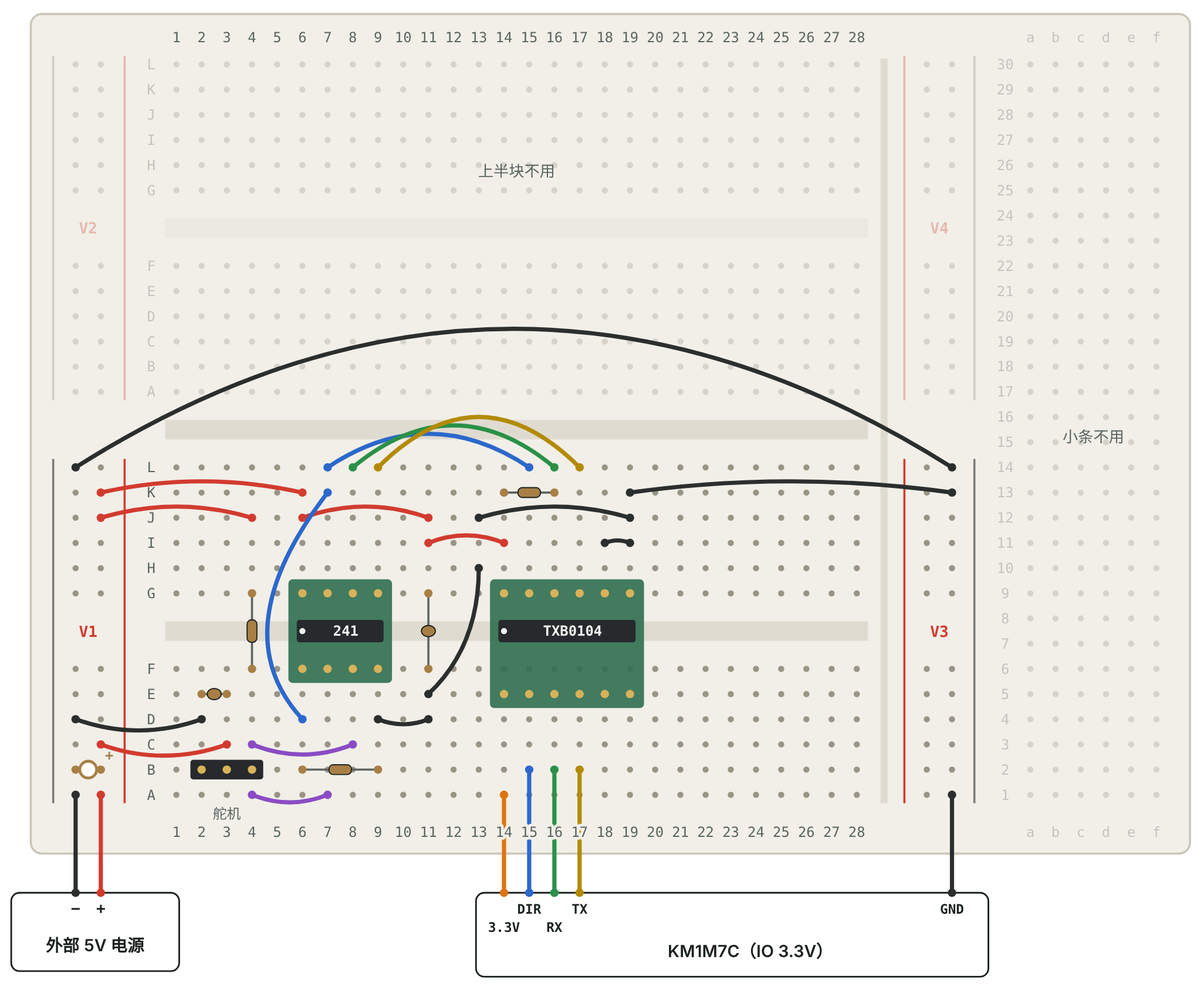
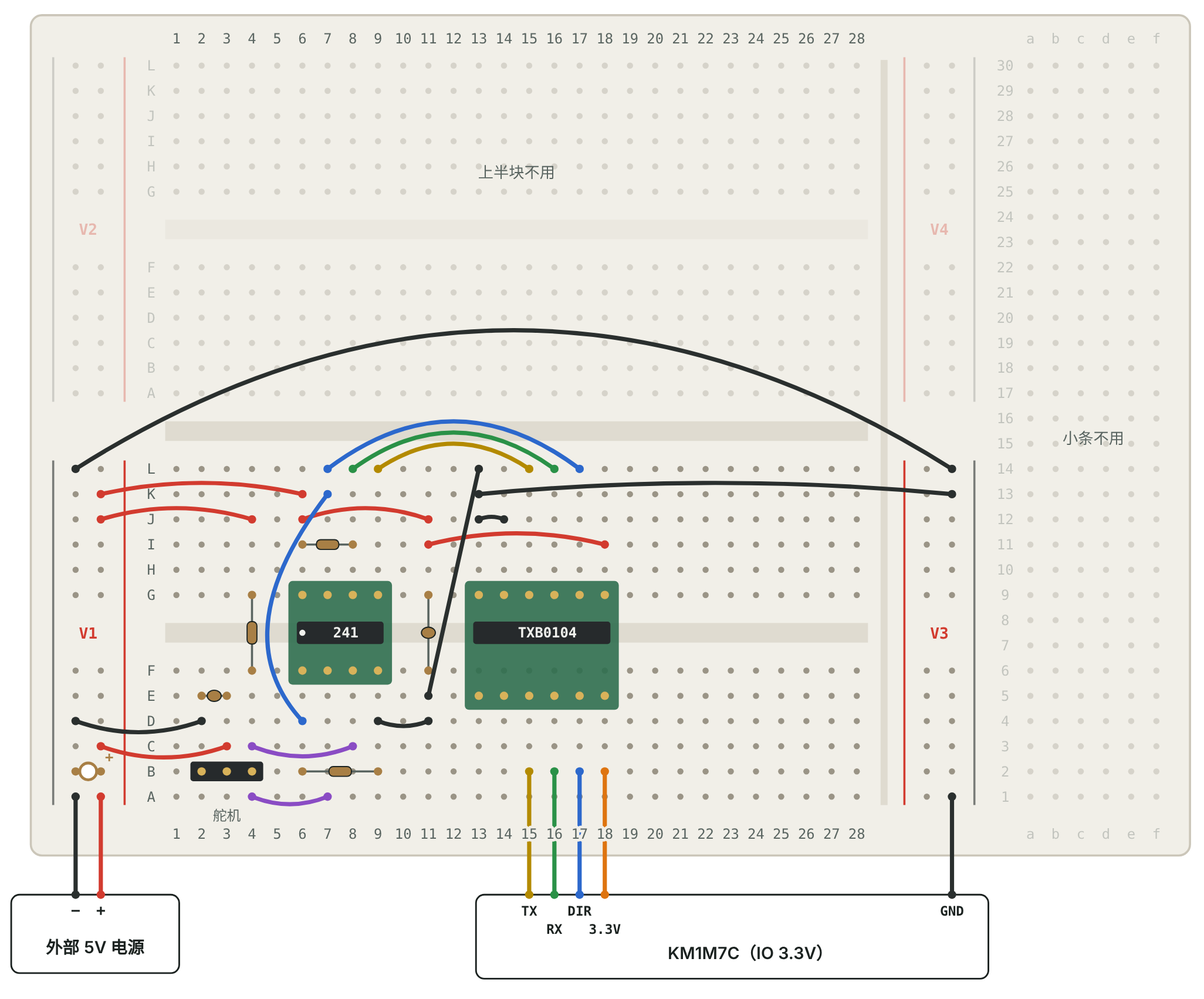
Redesign the layout around the Adafruit 1875 breakout
Instead of patching the 14-pin layout, place the module turned around in
columns 13-18 (GND/OE on the left, HV/LV on the right):
- module GND faces the hub, so one jumper (P8) replaces the old two-wire
  ground path, and B4 ties to GND with a one-column jumper;
- B3/B2/B1 sit opposite 2A/1Y/2OE, so the three bus wires nest without
  crossing;
- HV/LV are next to the MCU side; R2 moves next to the 241.
Channel assignment (A1=DIR, A2=RX, A3=TX) is unchanged, so the
schematic and firmware stay the same. The checker's placement and
self-tests are updated; 30 wires/parts, all nets match.

Claude-Session: https://claude.ai/code/session_01WiTXKFSppvefth2JxyFg7v

diff --git a/docs/breadboard/xl330_breadboard.html b/docs/breadboard/xl330_breadboard.html
@@ -156,10 +156,10 @@ ol.steps{margin:0;padding-left:1.4em;display:grid;gap:8px;max-width:72ch}
     <h2 id="w-h" style="font-size:16px">动手前先看这五条</h2>
     <ol>
       <li>面包板按照片的方向放：V1、V2 电源轨在左边，最右边是 1–30 的小条。只用下半块，也就是 V1 和 V3 中间那一块（28 列，槽两边各 6 个孔）。上半块、V2、V4 和小条都不用。</li>
-      <li><b>V1 = 外部 5V 和 GND，V3 − = MCU 的 GND（V3 + 不用）。</b>每条电源轨里，靠里（红线）那列是 +，靠外（黑线）那列是 −。先贴胶带标注。MCU 的 3.3V 直接插到第 14 列。</li>
+      <li><b>V1 = 外部 5V 和 GND，V3 − = MCU 的 GND（V3 + 不用）。</b>每条电源轨里，靠里（红线）那列是 +，靠外（黑线）那列是 −。先贴胶带标注。MCU 的 3.3V 直接插到第 18 列。</li>
       <li>MCU 板的 5V 引脚空着不接。同一条电源线上只能有一个电源。</li>
       <li>所有 GND 都要连在一起：外部电源的地和 MCU 的地靠 P1 那根长线接通。</li>
-      <li>241 转接板的 1 脚（圆点）朝左下：在槽下方（A–F 一侧）、靠 V1 那头，两排针插 G 行和 F 行。TXB0104 是 Adafruit 1875 模块（每排 6 针）：LV A1 A2 A3 A4 OE 那排插 E 行，HV B1 B2 B3 B4 GND 那排插 G 行，LV、HV 在第 14 列（靠 V1 那头）。E 和 F 同属槽下方那一组，电气上一样。</li>
+      <li>241 转接板的 1 脚（圆点）朝左下：在槽下方（A–F 一侧）、靠 V1 那头，两排针插 G 行和 F 行。TXB0104 是 Adafruit 1875 模块（每排 6 针），调头插在第 13–18 列：E 行从左到右是 OE A4 A3 A2 A1 LV，G 行是 GND B4 B3 B2 B1 HV，LV、HV 在第 18 列（靠 V3 那头）。E 和 F 同属槽下方那一组，电气上一样。</li>
     </ol>
   </section>
 
@@ -263,7 +263,7 @@ ol.steps{margin:0;padding-left:1.4em;display:grid;gap:8px;max-width:72ch}
     <p class="lede">按你照片里这块板画的，方向也和照片一样。这块板的电源轨在列的两头（左边 V1/V2，右边 V3/V4），不是沿着列走，所以用第 11 列做了一个 5V 和 GND 的中转点，两颗芯片的电源从这里接，线更短。点下面清单里的任意一条，图上会只突出那一根线。</p>
     <div class="frame"><svg id="bb" class="bb" viewBox="104 14 860 712" role="img" aria-labelledby="bb-t"><title id="bb-t">你的面包板上的元件位置与接线</title><g id="bb-g"></g></svg></div>
     <div class="legend">
-      <span><i class="sw c-5"></i>5V（V1 +，外部电源）</span><span><i class="sw c-33"></i>3.3V（MCU 直接接第 14 列）</span><span><i class="sw c-g"></i>GND（V1 −、V3 −）</span><span><i class="sw c-part"></i>电阻 / 电容</span>
+      <span><i class="sw c-5"></i>5V（V1 +，外部电源）</span><span><i class="sw c-33"></i>3.3V（MCU 直接接第 18 列）</span><span><i class="sw c-g"></i>GND（V1 −、V3 −）</span><span><i class="sw c-part"></i>电阻 / 电容</span>
     </div>
   </section>
 
@@ -284,13 +284,13 @@ ol.steps{margin:0;padding-left:1.4em;display:grid;gap:8px;max-width:72ch}
         <tr><td>9</td><td>5 2A · TX</td><td>4 GND</td></tr>
         <tr class="grp"><td colspan="3">中转（第 11 列）</td></tr>
         <tr><td>11</td><td>5V</td><td>GND</td></tr>
-        <tr class="grp"><td colspan="3">TXB0104 模块（第 14–19 列，针插 G 行和 E 行）</td></tr>
-        <tr><td>14</td><td>HV · 5V</td><td>LV · 3.3V（MCU 直接接）</td></tr>
-        <tr><td>15</td><td>B1 · DIR（接 241）</td><td>A1 · DIR（接 MCU）</td></tr>
+        <tr class="grp"><td colspan="3">TXB0104 模块（第 13–18 列，调头插，针插 G 行和 E 行）</td></tr>
+        <tr><td>13</td><td>GND</td><td>OE · 不接（模块上已有 10k 上拉）</td></tr>
+        <tr><td>14</td><td>B4 · 接 GND</td><td>A4 · 不接</td></tr>
+        <tr><td>15</td><td>B3 · TX（接 241）</td><td>A3 · TX（接 MCU）</td></tr>
         <tr><td>16</td><td>B2 · RX（接 241）</td><td>A2 · RX（接 MCU）</td></tr>
-        <tr><td>17</td><td>B3 · TX（接 241）</td><td>A3 · TX（接 MCU）</td></tr>
-        <tr><td>18</td><td>B4 · 接 GND</td><td>A4 · 不接</td></tr>
-        <tr><td>19</td><td>GND</td><td>OE · 不接（模块上已有 10k 上拉到 LV）</td></tr>
+        <tr><td>17</td><td>B1 · DIR（接 241）</td><td>A1 · DIR（接 MCU）</td></tr>
+        <tr><td>18</td><td>HV · 5V</td><td>LV · 3.3V（MCU 直接接）</td></tr>
       </tbody>
     </table></div>
   </section>
@@ -321,7 +321,7 @@ ol.steps{margin:0;padding-left:1.4em;display:grid;gap:8px;max-width:72ch}
       <h2>上电前检查</h2>
       <ol class="steps">
         <li>接完第 1 组、插芯片之前：万用表打到蜂鸣档，测 V1 + 对 V1 −，不能响。再测 V1 + 最上面和最下面两个孔，应该响，说明整条是通的；V1 −、V3 − 也一样测。</li>
-        <li>外部电源通电，测 V1 + 对 V1 − 约 5V；插上 MCU 的 USB，测第 14 列槽下方对 V3 − 约 3.3V。确认后都断电。</li>
+        <li>外部电源通电，测 V1 + 对 V1 − 约 5V；插上 MCU 的 USB，测第 18 列槽下方对 V3 − 约 3.3V。确认后都断电。</li>
         <li>接完芯片供电后再上电：TXB0104 模块的 LV 约 3.3V、HV 约 5V，74LVC2G241 第 8 脚约 5V。</li>
         <li>舵机线先别插，测第 3 列对第 2 列约 5V（舵机 VDD 对 GND）。</li>
         <li>上电顺序：先插 MCU 的 USB，再开外部 5V；断电顺序相反。顺序反了也不会损坏芯片，TXB0104 有一侧没电时输出会变成高阻。</li>
@@ -358,7 +358,7 @@ ol.steps{margin:0;padding-left:1.4em;display:grid;gap:8px;max-width:72ch}
     <div class="tbl"><table>
       <thead><tr><th>现象</th><th>先查什么</th></tr></thead>
       <tbody>
-        <tr><td style="font-family:var(--sans)">ping 一直没有应答</td><td>舵机上电时 LED 有没有闪；波特率是不是 57600；MCU 的 DIR、RX、TX 是否分别接第 15、16、17 列（槽下方）；上电后（DIR = 0）第 4 列 DATA 对 GND 是否约 5V；DIR = 1 时 241 第 7 脚是否约 5V。</td></tr>
+        <tr><td style="font-family:var(--sans)">ping 一直没有应答</td><td>舵机上电时 LED 有没有闪；波特率是不是 57600；MCU 的 DIR、RX、TX 是否分别接第 17、16、15 列（槽下方）；上电后（DIR = 0）第 4 列 DATA 对 GND 是否约 5V；DIR = 1 时 241 第 7 脚是否约 5V。</td></tr>
         <tr><td style="font-family:var(--sans)">偶尔有应答，经常 CRC 错误</td><td>DIR 切得太早：换成等“发送完成”标志。也检查 GND 是否都连在一起，尤其是 P1 那根长线。</td></tr>
         <tr><td style="font-family:var(--sans)">RX 收到的是自己刚发出去的字节</td><td>1OE 和 2OE 接反了，两个缓冲器同时打开。核对 S4、S7 两根线。</td></tr>
         <tr><td style="font-family:var(--sans)">舵机一转通信就中断</td><td>外部电源电流不够，或者 100µF 电容没接好。241 和舵机用的是同一路 5V，电压一掉就会出错。</td></tr>
@@ -397,7 +397,7 @@ ol.steps{margin:0;padding-left:1.4em;display:grid;gap:8px;max-width:72ch}
   const UROW={L:60,K:78,J:96,I:114,H:132,G:150,F:204,E:222,D:240,C:258,B:276,A:294};
   const RAILX={V1N:158,V1P:176,V3P:766,V3N:784};
   const RAILNAME={V1N:'V1 −',V1P:'V1 +',V3P:'V3 +',V3N:'V3 −'};
-  const MCU={'3V3':[464,652],DIR:[482,652],RX:[500,652],TX:[518,652],GND:[784,652]};
+  const MCU={TX:[482,652],RX:[500,652],DIR:[518,652],'3V3':[536,652],GND:[784,652]};
   const EXT={'+':[176,652],'-':[158,652]};
   const COL={'5':'var(--w5)','33':'var(--w33)','g':'var(--wg)','rx':'var(--wrx)','tx':'var(--wtx)','dir':'var(--wdir)','data':'var(--wdata)','part':'var(--part)'};
   const CN={'5':'红','33':'橙','g':'黑','rx':'绿','tx':'黄','dir':'蓝','data':'紫'};
@@ -423,26 +423,25 @@ ol.steps{margin:0;padding-left:1.4em;display:grid;gap:8px;max-width:72ch}
       ['P6','w','9D','11D','g','把 241 的 GND（4 脚）引到第 11 列槽下方（中转）'],
       ['C2','c','11G','11F','part','跨过槽，接在 5V 和 GND 中转之间的去耦电容','0.1µF'],
       ['R3','r','6B','9B','part','DIR 下拉（1OE ↔ GND）','100kΩ']]},
-    {t:'TXB0104 供电',items:[
-      ['K1','k','插入 TXB0104 模块','','','第 14–19 列：LV A1 A2 A3 A4 OE 那排插 E 行，HV B1 B2 B3 B4 GND 那排插 G 行，LV 在 14E、HV 在 14G。OE 不用接，模块上已有 10k 上拉'],
-      ['P7','w','11I','14I','5','HV（VB）= 5V'],
-      ['M1','w','MCU:3V3','14A','33','LV（VA）= 3.3V，MCU 的 3.3V 直接插到这里','',{b:0}],
-      ['P14','w','11E','13H','g','把 GND 从中转点引到第 13 列槽上方，再由 P11 接到模块的 GND','',{ctrl:[446,476]}],
-      ['P10','w','19K','V3N:K','g','模块 GND 接 V3 −（MCU 的地）'],
-      ['P11','w','13J','19J','g','GND 中转连到模块的 GND'],
-      ['P12','w','18I','19I','g','B4 不用，接 GND；A4 空着']]},
+    {t:'TXB0104 模块',items:[
+      ['K1','k','插入 TXB0104 模块（调头插）','','','第 13–18 列。从左到右：E 行是 OE A4 A3 A2 A1 LV，G 行是 GND B4 B3 B2 B1 HV；LV、HV 在第 18 列（靠 V3 那头）。OE 不用接，模块上已有 10k 上拉'],
+      ['P7','w','11I','18I','5','HV（VB）= 5V，从中转点引过来'],
+      ['P8','w','11E','13L','g','模块 GND 接到 GND 中转点（跨过槽）','',{ctrl:[428,430]}],
+      ['P9','w','13K','V3N:K','g','模块 GND 接 V3 −（MCU 的地）'],
+      ['P10','w','14J','13J','g','B4 不用，接旁边的 GND；A4 空着']]},
     {t:'MCU ↔ TXB0104（3.3V 一侧，槽下方）',items:[
-      ['S1','w','MCU:DIR','15B','dir','2 脚 A1，方向控制 DIR','',{b:0}],
-      ['S2','w','16B','MCU:RX','rx','3 脚 A2，接收','',{b:0}],
-      ['S3','w','MCU:TX','17B','tx','4 脚 A3，发送','',{b:0}]]},
-    {t:'TXB0104 ↔ 74LVC2G241（5V 一侧，槽上方）',items:[
-      ['S4','w','15L','7L','dir','B1（13 脚）→ 2OE（7 脚）','',{ctrl:[(cx(15)+cx(7))/2,300]}],
-      ['S5','w','8L','16L','rx','241 的 1Y（6 脚）→ B2（12 脚），接收','',{ctrl:[(cx(8)+cx(16))/2,288]}],
-      ['S6','w','17L','9L','tx','B3（11 脚）→ 241 的 2A（5 脚），发送','',{ctrl:[(cx(17)+cx(9))/2,276]}],
+      ['M1','w','MCU:3V3','18B','33','LV（VA）= 3.3V，MCU 的 3.3V 直接插到这里','',{b:0}],
+      ['S1','w','MCU:DIR','17B','dir','A1，方向控制 DIR','',{b:0}],
+      ['S2','w','16B','MCU:RX','rx','A2，接收','',{b:0}],
+      ['S3','w','MCU:TX','15B','tx','A3，发送','',{b:0}]]},
+    {t:'TXB0104 ↔ 74LVC2G241（5V 一侧，槽上方）',d:'三根线一根套一根，互不交叉：最短的 S6 先接，最长的 S4 最后接。',items:[
+      ['S6','w','15L','9L','tx','B3 → 241 的 2A（5 脚），发送','',{ctrl:[(cx(15)+cx(9))/2,312]}],
+      ['S5','w','8L','16L','rx','241 的 1Y（6 脚）→ B2，接收','',{ctrl:[(cx(8)+cx(16))/2,296]}],
+      ['S4','w','17L','7L','dir','B1 → 2OE（7 脚）','',{ctrl:[(cx(17)+cx(7))/2,280]}],
       ['S7','w','7K','6D','dir','2OE（7 脚）→ 1OE（1 脚）。2OE 高电平有效、1OE 低电平有效，所以 DIR = 1 发送，DIR = 0 接收','',{ctrl:[262,GROOVE]}],
-      ['R2','r','14K','16K','part','RX 上拉到 5V（HV ↔ B2）','100kΩ']]},
+      ['R2','r','6I','8I','part','RX 上拉到 5V（241 的 VCC ↔ 1Y），间距小可以竖着插','100kΩ']]},
     {t:'DATA 线',items:[
-      ['P13','w','V1P:J','4J','5','把 5V 引到第 4 列槽上方，给 R1 用'],
+      ['P11','w','V1P:J','4J','5','把 5V 引到第 4 列槽上方，给 R1 用'],
       ['R1','r','4G','4F','part','跨过槽，DATA 上拉到 5V','10kΩ'],
       ['S8','w','8C','4C','data','2Y（3 脚）→ DATA'],
       ['S9','w','7A','4A','data','1A（2 脚）← DATA']]}
@@ -505,17 +504,17 @@ ol.steps{margin:0;padding-left:1.4em;display:grid;gap:8px;max-width:72ch}
     h+='<line class="prt-red" x1="750" y1="342" x2="750" y2="588"/><line class="prt-blk" x1="800" y1="342" x2="800" y2="588"/>';
     h+='<text class="rlab" x="167" y="469" text-anchor="middle">V1</text><text class="rlab" x="775" y="469" text-anchor="middle">V3</text>';
     // chips
-    function chip(c1,n,name,low){
+    function chip(c1,n,name,low,nodot){
       const c2=c1+n-1, x1=cx(c1)-10, x2=cx(c2)+10;
       let s='<rect class="adapter" x="'+x1+'" y="428" width="'+(x2-x1)+'" height="'+(low+10-428)+'" rx="3"/>';
       s+='<rect class="chipbody" x="'+(x1+6)+'" y="457" width="'+(x2-x1-12)+'" height="16" rx="2"/>';
       s+='<text class="chiptxt" x="'+((x1+x2)/2+4)+'" y="468.5" text-anchor="middle">'+name+'</text>';
       for(let c=c1;c<=c2;c++){s+='<circle class="pin" cx="'+cx(c)+'" cy="438" r="3"/><circle class="pin" cx="'+cx(c)+'" cy="'+low+'" r="3"/>';}
-      s+='<circle class="p1" cx="'+cx(c1)+'" cy="465" r="2.2"/>';
+      if(!nodot) s+='<circle class="p1" cx="'+cx(c1)+'" cy="465" r="2.2"/>';
       return s;
     }
     h+=chip(6,4,'241',LROW.F);
-    h+=chip(14,6,'TXB0104',LROW.E);
+    h+=chip(13,6,'TXB0104',LROW.E,true);
     h+='<rect class="chipbody" x="'+(cx(2)-8)+'" y="557" width="'+(2*P+16)+'" height="14" rx="2"/>';
     for(let c=2;c<=4;c++) h+='<circle class="pin" cx="'+cx(c)+'" cy="564" r="3"/>';
     h+='<text x="'+cx(3)+'" y="599" text-anchor="middle">舵机</text>';
@@ -524,7 +523,7 @@ ol.steps{margin:0;padding-left:1.4em;display:grid;gap:8px;max-width:72ch}
     h+='<text class="pinlab" x="176" y="667" text-anchor="middle">+</text><text class="pinlab" x="158" y="667" text-anchor="middle">−</text>';
     h+='<text class="boxlab" x="172" y="694" text-anchor="middle">外部 5V 电源</text>';
     h+='<rect class="mcu" x="444" y="652" width="366" height="60" rx="6"/>';
-    [['3.3V',464,680],['DIR',482,667],['RX',500,680],['TX',518,667],['GND',784,667]].forEach(p=>{h+='<text class="pinlab" x="'+p[1]+'" y="'+p[2]+'" text-anchor="middle" style="font-size:9.5px">'+p[0]+'</text>';});
+    [['TX',482,667],['RX',500,680],['DIR',518,667],['3.3V',536,680],['GND',784,667]].forEach(p=>{h+='<text class="pinlab" x="'+p[1]+'" y="'+p[2]+'" text-anchor="middle" style="font-size:9.5px">'+p[0]+'</text>';});
     h+='<text class="boxlab" x="640" y="698" text-anchor="middle">KM1M7C（IO 3.3V）</text>';
     // wires and parts
     eachItem(it=>{

diff --git a/tools/check_wiring.py b/tools/check_wiring.py
@@ -31,7 +31,7 @@ PAGE = Path(__file__).resolve().parent.parent / "docs" / "breadboard" / "xl330_b
 # ---------------------------------------------------------------------------
 # 面包板上的固定摆放（和清单里的 K1、K2、K3 对应）
 # ---------------------------------------------------------------------------
-TXB_COL, TXB_UPPER_ROW, TXB_LOWER_ROW = 14, "G", "E"   # 模块，第 14–19 列，针插 G 行和 E 行
+TXB_COL, TXB_UPPER_ROW, TXB_LOWER_ROW = 13, "G", "E"   # Adafruit 1875 模块调头插，第 13–18 列，针插 G 行和 E 行
 G241_COL, G241_UPPER_ROW, G241_LOWER_ROW = 6, "G", "F"  # 第 6–9 列，针插 G 行和 F 行
 HEADER = {"2B": "XL330.1", "3B": "XL330.2", "4B": "XL330.3"}  # 舵机 1 号 GND，2 号 VDD，3 号 DATA
 
@@ -135,8 +135,8 @@ def node_of(pos, errors):
 def chip_pins():
     """芯片和排针的每只脚插在哪个孔。"""
     pins = {}
-    lower = ["VA", "A1", "A2", "A3", "A4", "OE"]   # TXB0104 模块：两排从左到右
-    upper = ["VB", "B1", "B2", "B3", "B4", "GND"]
+    lower = ["OE", "A4", "A3", "A2", "A1", "VA"]   # TXB0104 模块调头插：两排从左到右（VA = LV，VB = HV）
+    upper = ["GND", "B4", "B3", "B2", "B1", "VB"]
     for i in range(6):
         pins[f"TXB.{lower[i]}"] = f"{TXB_COL + i}{TXB_LOWER_ROW}"
         pins[f"TXB.{upper[i]}"] = f"{TXB_COL + i}{TXB_UPPER_ROW}"
@@ -280,10 +280,10 @@ def selftest():
         ("漏掉 P1（两边的地没接通）", lambda it: it[0] == "P1" and not it.__setitem__(3, "V1N:K")),
         ("R1 插错一列（一头悬空）", lambda it: it[0] == "R1" and not it.__setitem__(2, "2G")),
         ("电解电容 C4 正负接反", lambda it: it[0] == "C4" and not (it.__setitem__(2, "V1N:B"), it.__setitem__(3, "V1P:B"))),
-        ("两样东西插进同一个孔", lambda it: it[0] == "P12" and not it.__setitem__(2, "16B")),
-        ("5V 和 3.3V 短路（3.3V 插到了槽上方）", lambda it: it[0] == "M1" and not it.__setitem__(3, "14J")),
-        ("B4 的接地线插到了 A4 那一列", lambda it: it[0] == "P12" and not it.__setitem__(2, "18B")),
-        ("OE 被误接到 GND", lambda it: it[0] == "P12" and not it.__setitem__(2, "19B")),
+        ("两样东西插进同一个孔", lambda it: it[0] == "P10" and not it.__setitem__(2, "16B")),
+        ("5V 和 3.3V 短路（3.3V 插到了槽上方）", lambda it: it[0] == "M1" and not it.__setitem__(3, "18J")),
+        ("B4 的接地线插到了 A4 那一列", lambda it: it[0] == "P10" and not it.__setitem__(2, "14B")),
+        ("OE 被误接到 GND", lambda it: it[0] == "P10" and not it.__setitem__(3, "13B")),
     ]
     failed = 0
     for name, fn in cases:

diff --git a/docs/breadboard/README.md b/docs/breadboard/README.md
@@ -17,10 +17,10 @@
 ## 动手前先看
 
 1. 面包板按照片的方向放：V1、V2 电源轨在左边，最右边是 1–30 的小条。只用下半块，也就是 V1 和 V3 中间那一块（28 列，槽两边各 6 个孔）。上半块、V2、V4 和小条都不用。
-2. **V1 = 外部 5V 和 GND，V3 − = MCU 的 GND（V3 + 不用）。** 每条电源轨里，靠里（红线）那列是 +，靠外（黑线）那列是 −。先贴胶带标注。MCU 的 3.3V 直接插到第 14 列。
+2. **V1 = 外部 5V 和 GND，V3 − = MCU 的 GND（V3 + 不用）。** 每条电源轨里，靠里（红线）那列是 +，靠外（黑线）那列是 −。先贴胶带标注。MCU 的 3.3V 直接插到第 18 列。
 3. MCU 板的 5V 引脚空着不接。同一条电源线上只能有一个电源。
 4. 所有 GND 都要连在一起：外部电源的地和 MCU 的地靠 P1 那根长线接通。
-5. 241 转接板的 1 脚（圆点）朝左下：在槽下方（A–F 一侧）、靠 V1 那头，两排针插 G 行和 F 行。TXB0104 是 Adafruit 1875 模块（每排 6 针）：LV A1 A2 A3 A4 OE 那排插 E 行，HV B1 B2 B3 B4 GND 那排插 G 行，LV、HV 在第 14 列（靠 V1 那头）。E 和 F 同属槽下方那一组，电气上一样。
+5. 241 转接板的 1 脚（圆点）朝左下：在槽下方（A–F 一侧）、靠 V1 那头，两排针插 G 行和 F 行。TXB0104 是 Adafruit 1875 模块（每排 6 针），调头插在第 13–18 列：E 行从左到右是 OE A4 A3 A2 A1 LV，G 行是 GND B4 B3 B2 B1 HV，LV、HV 在第 18 列（靠 V3 那头）。E 和 F 同属槽下方那一组，电气上一样。
 
 ## 电路图
 
@@ -48,12 +48,12 @@
 | 8 | 241 6 1Y · RX | 241 3 2Y · DATA |
 | 9 | 241 5 2A · TX | 241 4 GND |
 | 11 | 5V 中转 | GND 中转 |
-| 14 | TXB HV · 5V（模块针插 G、E 行） | TXB LV · 3.3V（MCU 直接接） |
-| 15 | TXB B1 · DIR（接 241） | TXB A1 · DIR（接 MCU） |
+| 13 | TXB GND（模块调头插，针插 G、E 行） | TXB OE · 不接（模块上已有 10k 上拉） |
+| 14 | TXB B4 · 接 GND | TXB A4 · 不接 |
+| 15 | TXB B3 · TX（接 241） | TXB A3 · TX（接 MCU） |
 | 16 | TXB B2 · RX（接 241） | TXB A2 · RX（接 MCU） |
-| 17 | TXB B3 · TX（接 241） | TXB A3 · TX（接 MCU） |
-| 18 | TXB B4 · 接 GND | TXB A4 · 不接 |
-| 19 | TXB GND | TXB OE · 不接（模块上已有 10k 上拉到 LV） |
+| 17 | TXB B1 · DIR（接 241） | TXB A1 · DIR（接 MCU） |
+| 18 | TXB HV · 5V | TXB LV · 3.3V（MCU 直接接） |
 
 ## 接线清单
 
@@ -79,26 +79,25 @@
 | P6 | 9D → 11D | 黑 | 把 241 的 GND（4 脚）引到第 11 列槽下方（中转） |
 | C2 | 0.1µF：11G ↔ 11F | 元件 | 跨过槽，接在 5V 和 GND 中转之间的去耦电容 |
 | R3 | 100kΩ：6B ↔ 9B | 元件 | DIR 下拉（1OE ↔ GND） |
-| **4** | **TXB0104 供电** | |  |
-| K1 | 插入 TXB0104 模块 |  | 第 14–19 列：LV A1 A2 A3 A4 OE 那排插 E 行，HV B1 B2 B3 B4 GND 那排插 G 行，LV 在 14E、HV 在 14G。OE 不用接，模块上已有 10k 上拉 |
-| P7 | 11I → 14I | 红 | HV（VB）= 5V |
-| M1 | MCU 3.3V → 14A | 橙 | LV（VA）= 3.3V，MCU 的 3.3V 直接插到这里 |
-| P14 | 11E → 13H | 黑 | 把 GND 从中转点引到第 13 列槽上方，再由 P11 接到模块的 GND |
-| P10 | 19K → V3 − | 黑 | 模块 GND 接 V3 −（MCU 的地） |
-| P11 | 13J → 19J | 黑 | GND 中转连到模块的 GND |
-| P12 | 18I → 19I | 黑 | B4 不用，接 GND；A4 空着 |
+| **4** | **TXB0104 模块** | |  |
+| K1 | 插入 TXB0104 模块（调头插） |  | 第 13–18 列。从左到右：E 行是 OE A4 A3 A2 A1 LV，G 行是 GND B4 B3 B2 B1 HV；LV、HV 在第 18 列（靠 V3 那头）。OE 不用接，模块上已有 10k 上拉 |
+| P7 | 11I → 18I | 红 | HV（VB）= 5V，从中转点引过来 |
+| P8 | 11E → 13L | 黑 | 模块 GND 接到 GND 中转点（跨过槽） |
+| P9 | 13K → V3 − | 黑 | 模块 GND 接 V3 −（MCU 的地） |
+| P10 | 14J → 13J | 黑 | B4 不用，接旁边的 GND；A4 空着 |
 | **5** | **MCU ↔ TXB0104（3.3V 一侧，槽下方）** | |  |
-| S1 | MCU GPIO → 15B | 蓝 | 2 脚 A1，方向控制 DIR |
-| S2 | 16B → MCU RX | 绿 | 3 脚 A2，接收 |
-| S3 | MCU TX → 17B | 黄 | 4 脚 A3，发送 |
-| **6** | **TXB0104 ↔ 74LVC2G241（5V 一侧，槽上方）** | |  |
-| S4 | 15L → 7L | 蓝 | B1（13 脚）→ 2OE（7 脚） |
-| S5 | 8L → 16L | 绿 | 241 的 1Y（6 脚）→ B2（12 脚），接收 |
-| S6 | 17L → 9L | 黄 | B3（11 脚）→ 241 的 2A（5 脚），发送 |
+| M1 | MCU 3.3V → 18B | 橙 | LV（VA）= 3.3V，MCU 的 3.3V 直接插到这里 |
+| S1 | MCU GPIO → 17B | 蓝 | A1，方向控制 DIR |
+| S2 | 16B → MCU RX | 绿 | A2，接收 |
+| S3 | MCU TX → 15B | 黄 | A3，发送 |
+| **6** | **TXB0104 ↔ 74LVC2G241（5V 一侧，槽上方）** | | 三根线一根套一根，互不交叉：最短的 S6 先接，最长的 S4 最后接。 |
+| S6 | 15L → 9L | 黄 | B3 → 241 的 2A（5 脚），发送 |
+| S5 | 8L → 16L | 绿 | 241 的 1Y（6 脚）→ B2，接收 |
+| S4 | 17L → 7L | 蓝 | B1 → 2OE（7 脚） |
 | S7 | 7K → 6D | 蓝 | 2OE（7 脚）→ 1OE（1 脚）。2OE 高电平有效、1OE 低电平有效，所以 DIR = 1 发送，DIR = 0 接收 |
-| R2 | 100kΩ：14K ↔ 16K | 元件 | RX 上拉到 5V（HV ↔ B2） |
+| R2 | 100kΩ：6I ↔ 8I | 元件 | RX 上拉到 5V（241 的 VCC ↔ 1Y），间距小可以竖着插 |
 | **7** | **DATA 线** | |  |
-| P13 | V1 + → 4J | 红 | 把 5V 引到第 4 列槽上方，给 R1 用 |
+| P11 | V1 + → 4J | 红 | 把 5V 引到第 4 列槽上方，给 R1 用 |
 | R1 | 10kΩ：4G ↔ 4F | 元件 | 跨过槽，DATA 上拉到 5V |
 | S8 | 8C → 4C | 紫 | 2Y（3 脚）→ DATA |
 | S9 | 7A → 4A | 紫 | 1A（2 脚）← DATA |
@@ -127,7 +126,7 @@ python tools/check_wiring.py
 ## 上电前检查
 
 1. 接完第 1 组、插芯片之前：万用表打到蜂鸣档，测 V1 + 对 V1 −，不能响。再测 V1 + 最上面和最下面两个孔，应该响，说明整条是通的；V1 −、V3 − 也一样测。
-2. 外部电源通电，测 V1 + 对 V1 − 约 5V；插上 MCU 的 USB，测第 14 列槽下方对 V3 − 约 3.3V。确认后都断电。
+2. 外部电源通电，测 V1 + 对 V1 − 约 5V；插上 MCU 的 USB，测第 18 列槽下方对 V3 − 约 3.3V。确认后都断电。
 3. 接完芯片供电后再上电：TXB0104 模块的 LV 约 3.3V、HV 约 5V，74LVC2G241 第 8 脚约 5V。
 4. 舵机线先别插，测第 3 列对第 2 列约 5V（舵机 VDD 对 GND）。
 5. 上电顺序：先插 MCU 的 USB，再开外部 5V；断电顺序相反。顺序反了也不会损坏芯片，TXB0104 有一侧没电时输出会变成高阻。
@@ -145,7 +144,7 @@ python tools/check_wiring.py
 
 | 现象 | 先查什么 |
 |---|---|
-| ping 一直没有应答 | 舵机上电时 LED 有没有闪；波特率是否 57600；MCU 的 DIR、RX、TX 是否分别接第 15、16、17 列（槽下方）；上电后（DIR = 0）第 4 列 DATA 对 GND 是否约 5V；DIR = 1 时 241 第 7 脚是否约 5V |
+| ping 一直没有应答 | 舵机上电时 LED 有没有闪；波特率是否 57600；MCU 的 DIR、RX、TX 是否分别接第 17、16、15 列（槽下方）；上电后（DIR = 0）第 4 列 DATA 对 GND 是否约 5V；DIR = 1 时 241 第 7 脚是否约 5V |
 | 偶尔有应答，经常 CRC 错误 | DIR 切得太早，改为等“发送完成”标志；检查 GND 是否都连通，尤其是 P1 那根长线 |
 | RX 收到自己刚发的字节 | 1OE 和 2OE 接反，两个缓冲器同时打开；核对 S4、S7 |
 | 舵机一转通信就中断 | 外部电源电流不够，或 100µF 电容没接好；241 和舵机用的是同一路 5V |
